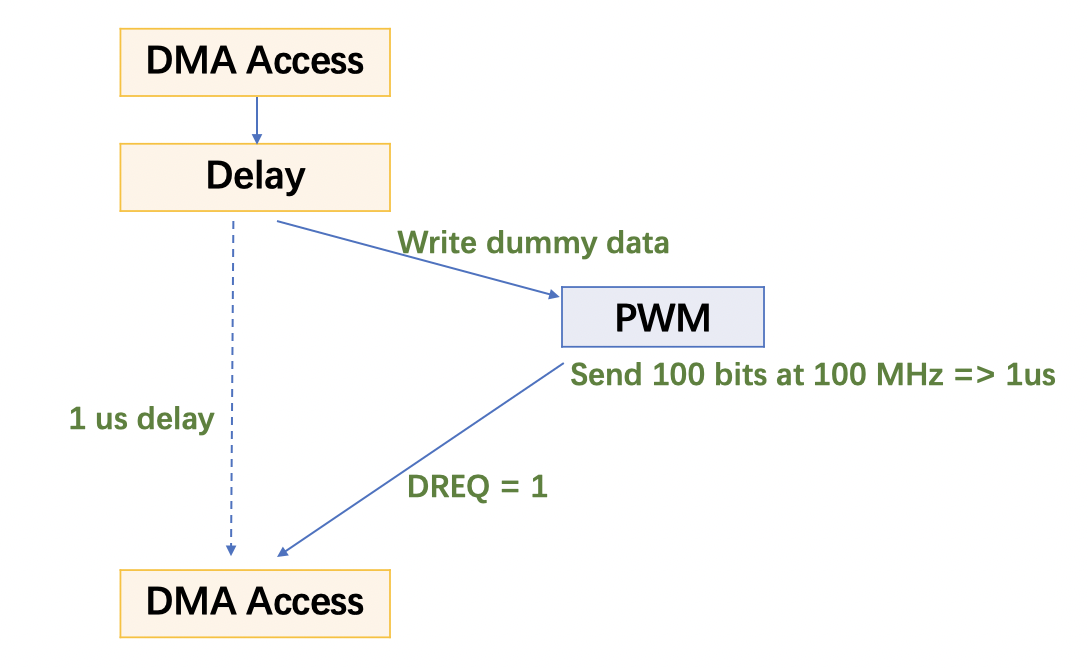
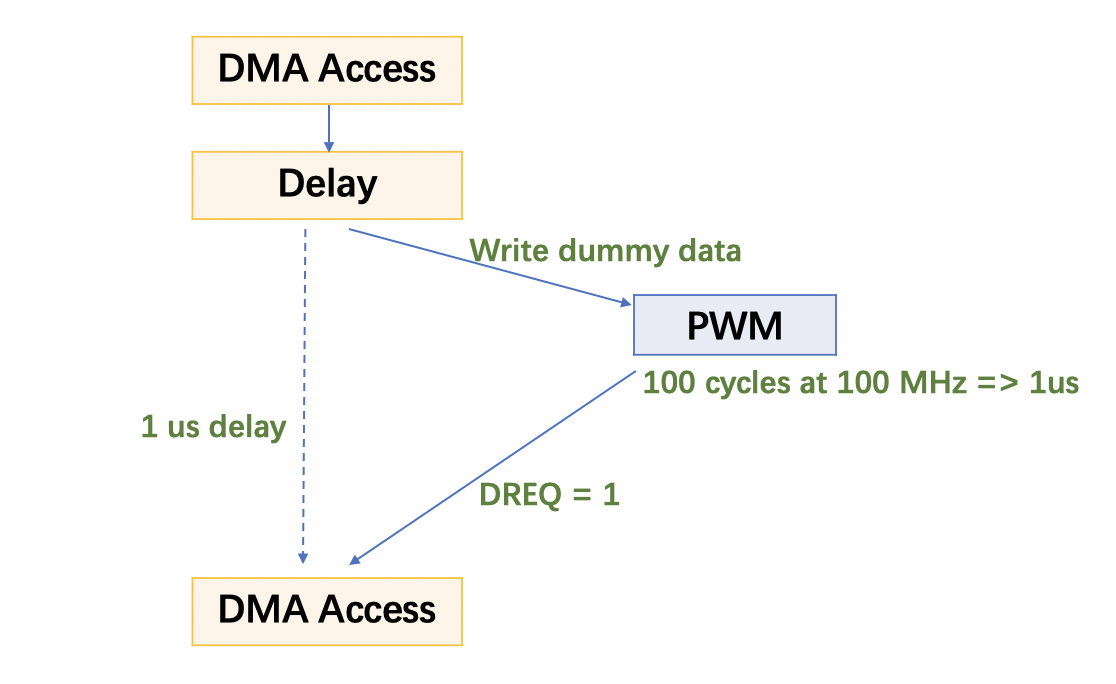
Update image

diff --git a/README.md b/README.md
@@ -1,28 +1,30 @@
 # A simple tutorial on using Raspberry Pi DMA channels
 
-Suppose you need to monitor the level changes of your Pi's GPIOs and report them as soon as possible. This could be as simple as a single *interrupt* if you are programming on *bare metal*. However, things are much more complicated if you are working on Pi's Linux system with tens of other processes running. To avoid your program from occupying all the CPU cycles, you need to use **DMA**.
+I found that there actually exists very few tutorial-like resources on how to use Raspberry Pi's DMA channel properly. There are some code examples, but they take time to read and may be tough for beginners to understand.
 
-I found that there actually exists very few tutorial-like resources on how to use Raspberry Pi's DMA channel properly. So I wrote this article for those who need to control DMA channels themselves, or (like me) are just curious about how great tools like [pigpio](http://abyz.me.uk/rpi/pigpio/index.html) achieves high-speed sampling while consuming surprisingly low CPU resources. I'm not an expert in Raspberry Pi, so I **welcome any comments or suggestions** so I can improve this tutorial.
+So I wrote this article for those who need to control DMA channels themselves, or (like me) are just curious about how great tools like [pigpio](http://abyz.me.uk/rpi/pigpio/index.html) achieves high-speed sampling while consuming surprisingly low CPU resources. I'm not an expert in Raspberry Pi, so I **welcome any comments or suggestions** so that I can improve this tutorial.
 
-**In this tutorial**, we will first control the DMA to continuously fetch the BCM2835 system timer, then we will pace DMA accesses with the PWM peripheral so we can designate a fixed DMA sample rate. I choose the system timer here because it increments every microsecond, so we can easily check whether our code is working correctly. Finally, I'm going to present a demo that uses DMA to monitor GPIO level changes at the accuracy of 1 us.
+**In this tutorial**, we will first control the DMA to continuously fetch the BCM2835 **system timer**, then we attempt to pace DMA accesses with the PWM peripheral so we can designate a fixed sample rate. I choose the system timer here because it increments every microsecond, so we can easily check whether our code is working correctly. Finally, I'm going to present a demo that uses DMA to monitor GPIO level changes at the accuracy of 1 us.
+
+I tested my code on my Raspberry Pi 3 B+, but it seems that the only difference across models is the base address of peripherals. Although this article focuses on sampling (**reading**), it should be as simple as swapping `src` and `dest` to let the data flow reversely.
 
 ## Background knowledge
 
 As described in [BCM2835-ARM-Peripherals](https://www.raspberrypi.org/app/uploads/2012/02/BCM2835-ARM-Peripherals.pdf) (the "*datasheet*"), There are three types of addresses in Raspberry Pi:
 
 * *ARM Virtual Address*: The address used in the virtual address space of a Linux process.
-* *ARM Physical Address*: The address used when accessing RAM. Since peripherals on BCM2835 are [memory-mapped](https://en.wikipedia.org/wiki/Memory-mapped_I/O), this address is used to access peripherals directly.
+* *ARM Physical Address*: The address used when accessing physical memory. Since peripherals on BCM2835 are [memory-mapped](https://en.wikipedia.org/wiki/Memory-mapped_I/O), this address is used to access peripherals directly.
 * *Bus Address*: This is the address used by the DMA engine.
 
-Note that the *physical addresses* of the peripherals range from *0x3F000000* to *0x3FFFFFFF* and are mapped onto *bus address* range *0x7F000000* to *0x7FFFFFFF*, like this which we'll use later:
+The *physical addresses* of the peripherals range from *0x3F000000* to *0x3FFFFFFF* and are mapped onto *bus address* range *0x7F000000* to *0x7FFFFFFF*. We can convert between them like this:
 
 ``` c
 #define BUS_TO_PHYS(x) ((x) & ~0xC0000000
 ```
 
-The BCM2835 has 16 DMA channels. The *DMA channel controller registers* start at *bus address* 0x7E007000, with adjacent channels offset by 0x100. Detailed information about the DMA controller can be found in the *datasheet*.
+The BCM2835 has 16 **DMA** channels. The *DMA channel controller registers* start at *bus address* 0x7E007000, with adjacent channels offset by 0x100. Detailed information about the DMA controller can be found in Section 4 of the *datasheet*.
 
-The *DMA control blocks* on BCM2835 are organized as a *linked list*, with the pivot being *DMA channel controller registers*. Note that all "pointer"s in the following image are **bus address**es.
+The *DMA control blocks* on BCM2835 are organized as a *linked list*, with the **sentinel** being *DMA channel controller registers*. When DMA starts working, the `cb_addr` field is **updated** after each DMA transfer so it always point to the current control block. Note that all "pointer"s in the following graph are **bus address**es. The exact meaning of these registers are documented in Section 4.2.1 in the *datasheet*.
 
 <img src="./img/dma_demo.png">
 
@@ -30,11 +32,13 @@ The *DMA control blocks* on BCM2835 are organized as a *linked list*, with the p
 
 As metioned above, peripherals can be accessed by user programs with their *physical address*. In order to configure the DMA channel, we need to bring the DMA controller registers into *virtual memory*.
 
-The way we access these memory-mapped peripherals is to `mmap` them from the `/dev/mem` interface. We can wrap this procedure inside a function, note that I omitted error handling code here for clarity.
+The way we access these memory-mapped peripherals is to `mmap` them from the `/dev/mem` device, which is an image of main memory. We can wrap this procedure in a function, note that I omitted error handling code here for clarity.
 
 ``` c
 void *map_peripheral(uint32_t peri_offset, uint32_t size)
 {
+    // Error handling omitted for clarity, see full code in dma-unpaced.c
+  
     // Check mem(4) man page for "/dev/mem"
     int mem_fd = open("/dev/mem", O_RDWR | O_SYNC);
 
@@ -52,11 +56,11 @@ void *map_peripheral(uint32_t peri_offset, uint32_t size)
 }
 ```
 
-With this defined, we can define. Also, remember to use [`volatile`](https://en.wikipedia.org/wiki/Volatile_(computer_programming)) when accessing peripherals!
+With this defined, we can easily obtain pointers to peripherals. Also, remember to use [`volatile`](https://en.wikipedia.org/wiki/Volatile_(computer_programming)) when accessing peripherals!
 
 ``` c
 volatile uint8_t *dma_base_ptr = map_peripheral(DMA_BASE, PAGE_SIZE);
-// We use DMA channel 5 here, a little pointer arithmetic is required
+// We use DMA channel 5 here, so a little pointer arithmetic is required
 volatile dma_channel_hdr = (DMAChannelHeader *)(dma_base_ptr + DMA_CHANNEL * 0x100);
 ```
 
@@ -82,8 +86,9 @@ typedef struct DMAMemHandle
 I've included a mailbox implementation in this repository, with which we can implement `malloc` and `free`-like memory management. You may need to check its **permissive** license if you are to use it.
 
 ``` c
-// `int mailbox_fd = mbox_open()` somewhere else
-DMAMemHandle dma_malloc(unsigned int size
+// mailbox_fd initialized with mbox_open()
+
+DMAMemHandle dma_malloc(unsigned int size)
 {
     // Error handling code omitted, see dma-unpaced.c for full code
     DMAMemHandle page;
@@ -104,12 +109,11 @@ void dma_free(DMAMemHandle *page)
 }
 ```
 
-## Starting DMA transfer 
-
 As the mailbox `mem_alloc` function requires alignment by page, I specified the page structure for my control blocks and result buffer:
 
 ``` c
 #define PAGE_SIZE 4096 // Normal page size of Pi
+
 typedef struct DMACbPage
 {
     DMAControlBlock cbs[PAGE_SIZE / sizeof(DMAControlBlock)];
@@ -121,7 +125,9 @@ typedef struct DMAResultPage
 } DMAResultPage;
 ```
 
-This definition allows us to get the *virtual* or *bus address* of the `ith` control block through *C struct indexing*.
+## Starting DMA transfer 
+
+The above definition allows us to get the *virtual* or *bus address* of the *ith* control block easily through *C struct indexing*.
 
 ``` c
 static inline DMAControlBlock *ith_cb_virt_addr(int i)
@@ -151,7 +157,7 @@ cb->tx_len = 4; // 32 bits = 4 bytes
 cb->next_cb = ith_cb_bus_addr((i + 1) % NUM_CBS);  // A circular list here to do DMA forever
 ```
 
-After that, let the *DMA controller register* (the "pivot") to point to the first *DMA control block* and set the `active` bit in the `CS` field to start DMA transfer.
+After that, let the *DMA controller register* to point to the first *DMA control block* and set the `active` bit in the `CS` field to start DMA transfer.
 
 ``` c
 dma_reg->cb_addr = ith_cb_bus_addr(0); // Point to the first control block
@@ -190,11 +196,11 @@ DMA 19: 1616166277
 
 It seems that the speed of DMA accesses to the system timer is about *4~5 MHZ*, which is decent. However, most of the times we hope to do DMA accesses **at timed intervals**, so we can control the DMA *sampling rate* (or *write speed* for output). Fortunately, we could pace DMA accesses with the **DREQ** mechanism (documented in Section 4.2.1.3 in the *datasheet*), although it's a little tricky.
 
-We do this by inserting a "delay" block between two DMA "acesses" blocks. **The idea is**: the "delay" block controls the DMA engine to feed some dummy data to the **PWM** FIFO, then the PWM controller reads from its FIFO and "sends" this data out. The DMA engine keeps waiting until the PWM finishes sending and sets the *DREQ* signal to high. As we could control the number of *clock cycles* the PWM controller takes to send the data, we could delay the DMA engine for the duration we want.
+We do this by inserting a "delay" block between two DMA "acesses" blocks. **The idea is**: the "delay" block invokes a DMA write to the **PWM** FIFO, then the PWM controller reads from its FIFO and "sends" this data out. The DMA engine keeps waiting until the PWM finishes sending and sets the *DREQ* signal to high. As we could control the number of *clock cycles* the PWM controller spend sending the data, we could delay the DMA engine for the duration we want.
 
-You could see that exactly what data to be sent to the PWM FIFO doesn't really matter. *We just use PWM to generate an accurate delay*. If you are unclear of how the PWM controller works, check Section 9.4 of the *datasheet*. Also note that **PCM** can do basically the same thing, but we'll use PWM for this tutorial. Another thing to notice is that the *clock* metioned last paragraph is the clock generated by the **clock manager**. Check *Section 6.3* of the *datasheet* for more information. 
+You could see that exactly what data to be sent to the PWM FIFO doesn't really matter. We just use PWM to *generate an accurate delay*. If you are unclear of how the PWM controller works, check Section 9.4 of the *datasheet*. Also note that **PCM** can basically do the same thing, but we'll use PWM for this tutorial. Another thing to notice is that the *clock* mentioned last paragraph is the clock generated by the **clock manager**, which is documented in *Section 6.3* of the *datasheet* . I recommend also checking [here](https://elinux.org/BCM2835_registers#CM) for its register mappings.
 
-In my example, I choose the 500-MHz **PLLD** here as our PWM clock source, as it's [unlikely to change](https://raspberrypi.stackexchange.com/questions/1153/what-are-the-different-clock-sources-for-the-general-purpose-clocks). I divide it by *5* to get a 100-Mhz clock and set `range` field of PWM controller to *100* so it takes 100 cycles to send the data, which yields a total duration of 1us. 
+In my example, I choose the 500-MHz **PLLD** here as our PWM clock source, as it's [unlikely to change](https://raspberrypi.stackexchange.com/questions/1153/what-are-the-different-clock-sources-for-the-general-purpose-clocks) across models. I divide it by *5* to get a 100-Mhz clock and set `range` field of PWM controller to *100* so it takes 100 clock cycles to send the data, which yields a total duration of **1 us**. 
 
 <img src="./img/dma_delay.png" width="500">
 
@@ -204,7 +210,7 @@ Here is a simplified version of the code used to control the PWM, note that I ha
 clk_reg[CLK_PWMCTL] = BCM_PASSWD | CLK_CTL_SRC(CLK_CTL_SRC_PLLD); // Clock source 
 clk_reg[CLK_PWMDIV] = BCM_PASSWD | CLK_DIV_DIVI(5); // Divide by 5, 100 Mhz now
 
-pwm_reg->range1 = 100 * 1; // Send for 100 cycles
+pwm_reg->range1 = 100 * 1; // Sending for 100 cycles
 ```
 
 Configuring the "delay" control block is roughly the same as before, except for the following fields: 
@@ -242,7 +248,7 @@ DMA 18: 2855359905
 DMA 19: 2855359906
 ```
 
-We could see that the DMA accesses are done every microsecond, cool!
+We could see that the DMA accesses are done precisely every microsecond, cool!
 
 ## Final example: us-level GPIO monitoring
 
@@ -251,12 +257,11 @@ Now that we've paced our DMA accesses at a fixed sampling rate, we could do some
 A main loop is waked up every 5 ms to process those GPIO levels that has been recently sampled into the ring buffer. In case the process would be switched out by the Linux scheduler for a long time, I allocated a huge buffer that could store samples in the last 100 ms. The ring buffer is accessed in a straightforward way:
 
 ``` c
-// `old_idx` is the index of the latest `level` entry we have processed
-// `cur_idx` is the index of the latest `level` entry the DMA engine have sampled
+// `old_idx` is the index of the latest `level` record we have processed
+// `cur_idx` is the index of the latest `level` record the DMA engine have sampled
 while (1)
 {
-     // Get current DMA CB index in dma_reg->cb_addr, then calculate the current level entry index
-    cur_idx = get_cur_level_idx();
+    cur_idx = get_cur_level_idx(); // We can caluculate the current level record index by current DMA CB index
     while (old_idx != cur_idx)
     {
         uint32_t level = *ith_level_virt_addr(old_idx) & ~0xF0000000; // Only GPIO 0-27
@@ -296,9 +301,9 @@ Now compile this code with `make dma-demo`  and run with `sudo ./dma-demo`, then
 >>> pi.write(4, 0)
 ```
 
-You could see that the level changes are detected immediately as you type in the python commands. Also check `htop` and you will see that the CPU usage of our demo program is just as low as around **20%**. With a lower sample rate like 5 us, the CPU usage is almost negligible.
+You could see that the level changes are detected immediately as you type in the python commands! Also check `htop` and on my machine, the CPU usage of our demo program is just as low as around **20%**. With a lower sample rate like 5 us, the CPU usage is almost negligible.
 
 ## Conlusions and References
 
-As is mentioned at beginning of this article, there are lots of great code examples that use DMA. [pigpio](http://abyz.me.uk/rpi/pigpio/index.html) is the one that use most, and it provides DMA memory allocation implementaions using both `pagemap` and mailbox, as well as DMA delay implementations with both PCM and PWM. I haven't used [ServoBlaster](https://github.com/richardghirst/PiBits/tree/master/ServoBlaster) before, but it is probably the first to use PWM to generate accurate DMA delay, and [this stackoverflow post](https://stackoverflow.com/questions/50427275/raspberry-how-does-the-pwm-via-dma-work) may help you understand its code. [Wallacoloo's example](https://github.com/Wallacoloo/Raspberry-Pi-DMA-Example) (a bit outdated) and [hezller's demo](https://github.com/hzeller/rpi-gpio-dma-demo) are also great references.
+As is mentioned at beginning of this article, there are lots of great code examples that use DMA. [pigpio](http://abyz.me.uk/rpi/pigpio/index.html) is the one that use most, and it provides DMA memory allocation implementaions using both `pagemap` and mailbox, as well as DMA delay implementations with both PCM and PWM. I haven't used [ServoBlaster](https://github.com/richardghirst/PiBits/tree/master/ServoBlaster) before, but it is probably the first to use PWM to generate accurate DMA delay, and [this stackoverflow post](https://stackoverflow.com/questions/50427275/raspberry-how-does-the-pwm-via-dma-work) may help you understand its code. [Wallacoloo's example](https://github.com/Wallacoloo/Raspberry-Pi-DMA-Example) (a bit outdated) and [hezller's demo](https://github.com/hzeller/rpi-gpio-dma-demo) are also great references. The ideas in this article is largely based on the above resources and explained according to my own understanding.
 
